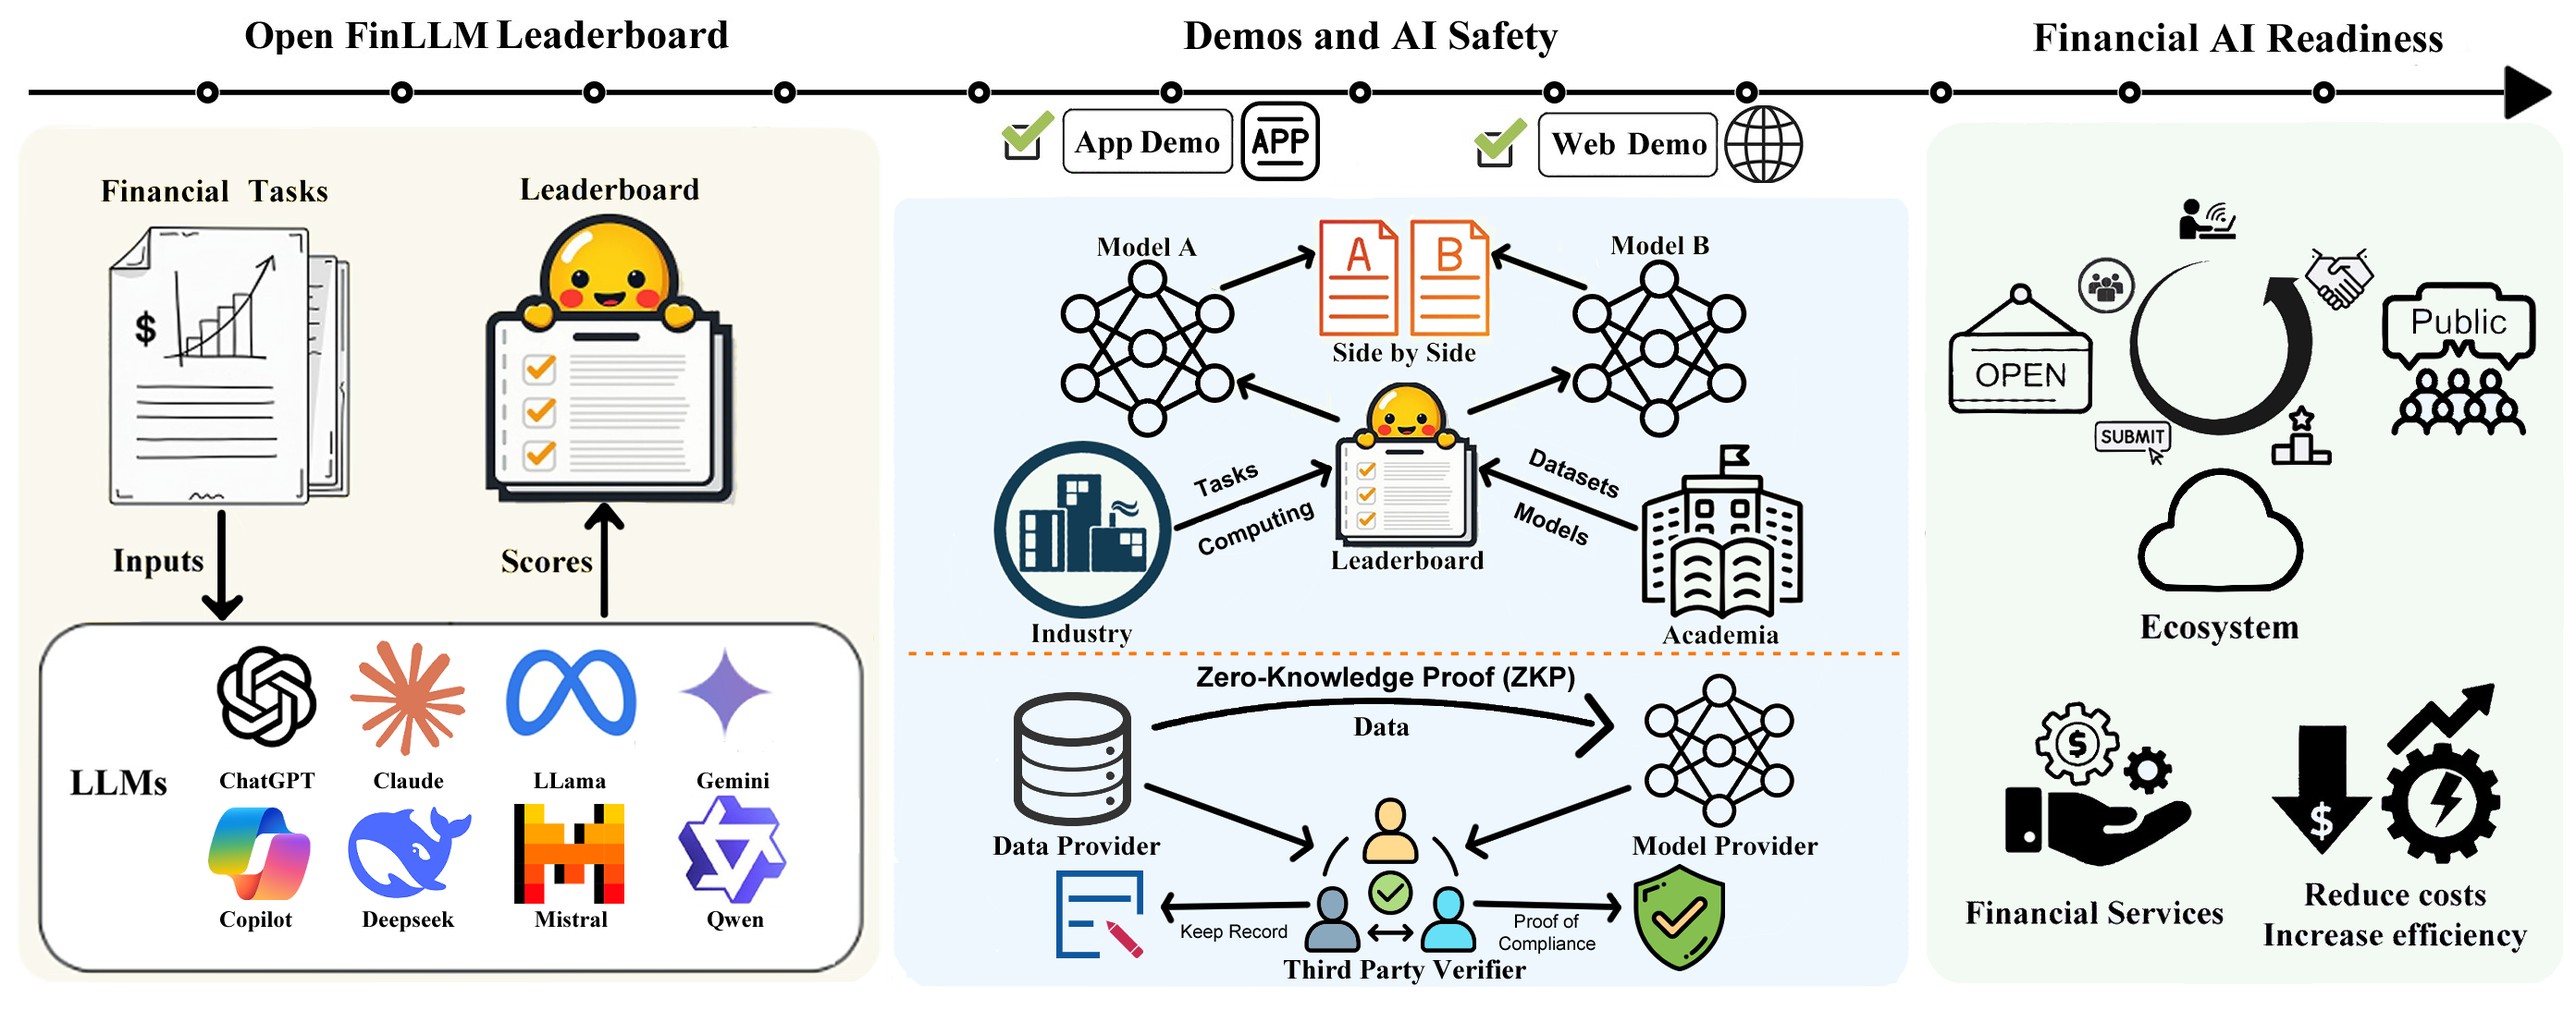
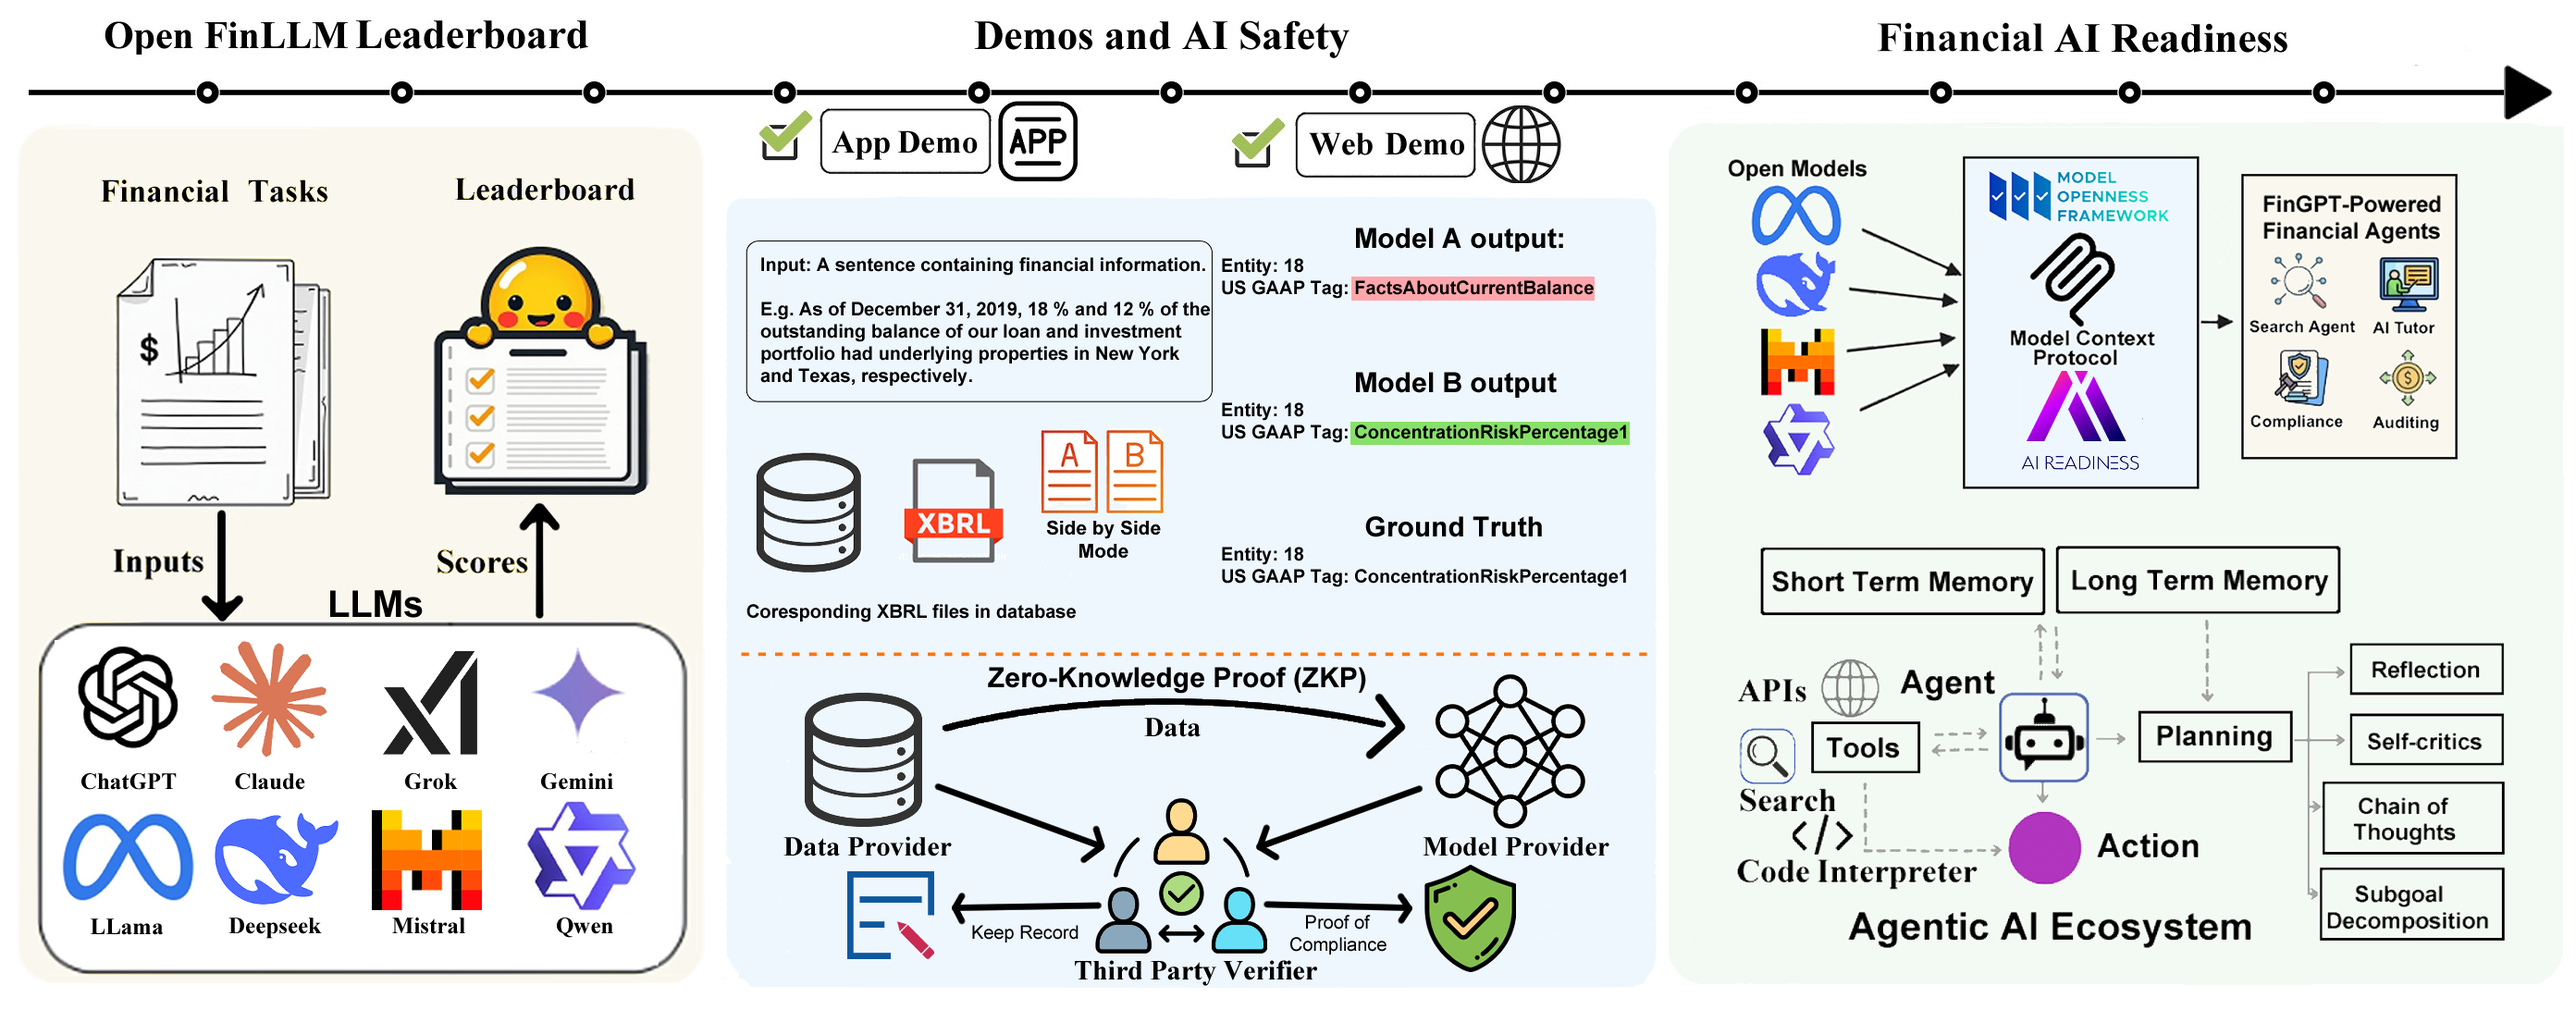
Overview image update

diff --git a/docs/source/user/introduction.rst b/docs/source/user/introduction.rst
@@ -33,6 +33,23 @@ Our goal is to fill this critical gap by providing:
 - Clear insights into model performance across different financial tasks
 - A platform for continuous improvement and innovation in financial AI
 
+Open FinLLM Leaderboard
+-----------
+This section reflects our effort where we collect diverse financial tasks and models from research teams and industries. Models are then evaluated on our leaderboard. Currently there are several opensource evaluation framework for LLMs, but each of them would give a different result even when evaluating the same model using a same dataset. Our goal is to build a reliable benchmarking framework for reference that bridges academic research with practical financial applications.
+
+Demos and AI Safety
+-------------------
+At the center of the illustration, a side-by-side view is presented. Unlike conventional leaderboards that only display scores, this segment offers an online comparison demo. We show multiple actual model outputs with their corresponding performance scores to help users better understand the real-world implications of these metrics, thereby enhancing transparency and promoting AI safety.
+
+ZKP (Zero-Knowledge Proof)
+--------------------------
+The lower portion of the Demos and AI Safety introduces the concept of Zero-Knowledge Proof (ZKP). This planned feature aims to protect dataset privacy and prevent fraudulent behaviors such as leaderboard manipulation. With ZKP, we envision a system that can verify model performance without exposing sensitive underlying data, ensuring both integrity and security of the evaluation process.
+
+Financial AI Readiness
+----------------------
+On the right, this segment embodies the primary objective of the Leaderboard: to build a gateway between academia and industry. By translating complex research achievements into accessible and actionable insights, we foster the growth of the Agentic AI Ecosystem. Much like established industry standards such as MCP and MOF, this section sets the benchmark for financial AI readiness, ensuring that innovations in financial language models are both practical and impactful.
+
+
 Key Features
 ============
 Task Categories

diff --git a/docs/source/basics_setup/index.rst b/docs/source/basics_setup/index.rst
@@ -1,6 +1,6 @@
-=============
+==========================
 Basic and Setup
-=============
+==========================
 
 .. toctree::
    :maxdepth: 2
